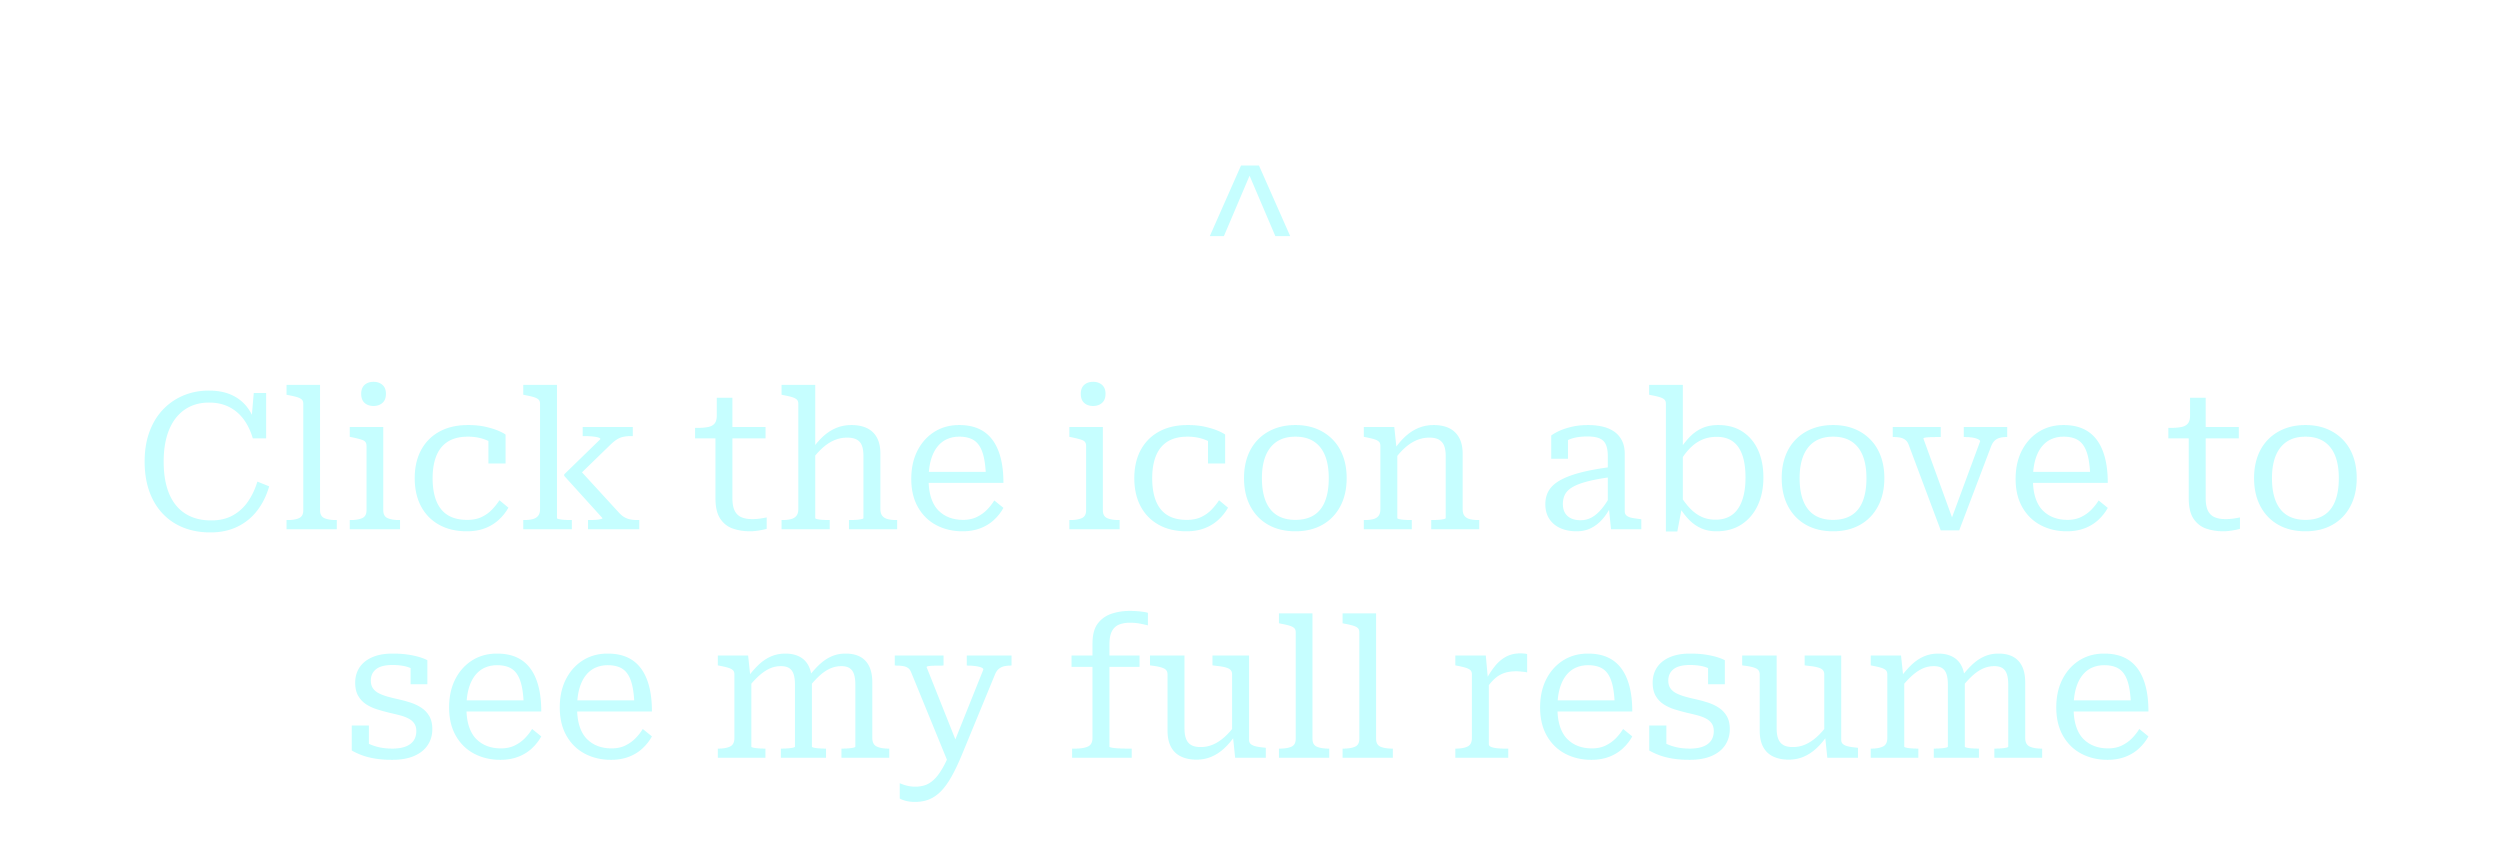
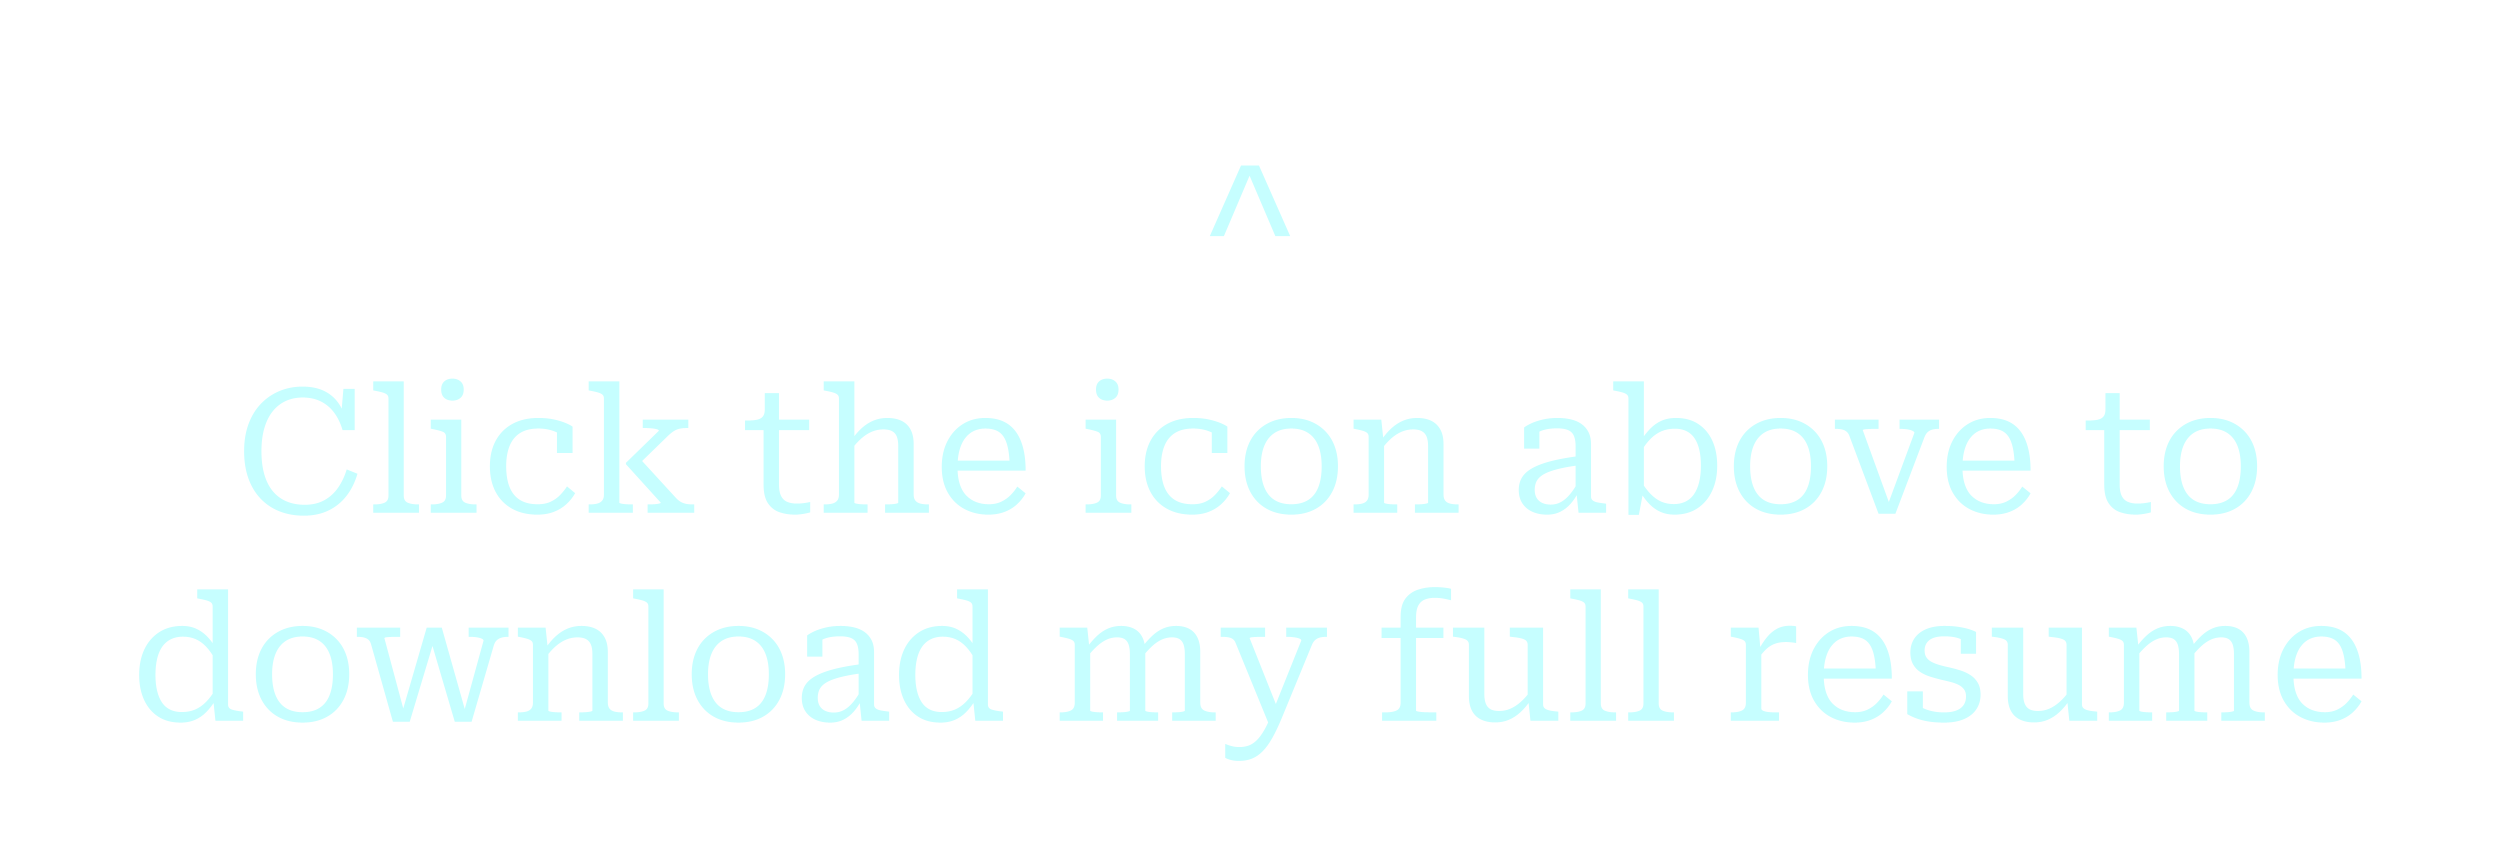
remaining panels content

Changed region(s): [[0.0312, 0.6674, 0.9672, 0.9102], [0.0312, 0.4247, 0.9672, 0.6371], [0.3432, 0.9102, 0.3744, 0.9405]]

diff --git a/main.js b/main.js
@@ -26,13 +26,18 @@ import DownloadCaption from "./images/downloadcaption.png";
 import Resume from "./resume.pdf";
 
 import Panel3Title from "./images/panel3title.png";
+import Panel3Caption from "./images/panel3caption.png";
+import Founders from "./images/founders.png";
+import BISV from "./images/bisv.png";
 
 import Panel4Title from "./images/panel4title.png";
+import Panel4Caption from "./images/hobbies.png";
 
 import Panel5Title from "./images/panel5title.png";
 import Illinois from "./images/illinois.png";
 import IllinoisCaption from "./images/illinoiscaption.png";
 import Coursework from "./images/coursework.png";
+import Skills from "./images/skills.png";
 
 import Panel6Title from "./images/panel6title.png";
 import Panel6Caption from "./images/panel6caption.png";
@@ -260,8 +265,42 @@ const panel3title = new THREE.Mesh(panel3titleGeo, panel3titleMesh);
 panel3title.position.set(-438, 60, 255);
 panel3title.rotateY(-1 * Math.PI / 3);
 
+const panel3captionTexture = new THREE.TextureLoader().load(Panel3Caption);
+const panel3captionGeo = new THREE.PlaneGeometry(220, 140);
+const panel3captionMesh = new THREE.MeshLambertMaterial({map: panel3captionTexture});
+panel3captionMesh.alphaHash = 1;
+const panel3caption = new THREE.Mesh(panel3captionGeo, panel3captionMesh);
+panel3caption.position.set(-450, -25, 235);
+panel3caption.rotateY(-1 * Math.PI / 3);
+
+const foundersTexture = new THREE.TextureLoader().load(Founders);
+const foundersGeo = new THREE.PlaneGeometry(30, 30);
+const foundersMesh = new THREE.MeshLambertMaterial({map: foundersTexture});
+foundersMesh.alphaHash = 1;
+const founders = new THREE.Mesh(foundersGeo, foundersMesh);
+founders.position.set(-390, 25, 340);
+founders.rotateY(-1 * Math.PI / 3);
+
+const videoTexture = new THREE.TextureLoader().load(Illinois);
+const videoGeo = new THREE.PlaneGeometry(20, 30);
+const videoMesh = new THREE.MeshLambertMaterial({map: videoTexture});
+videoMesh.alphaHash = 1;
+const video = new THREE.Mesh(videoGeo, videoMesh);
+video.position.set(-390, -25, 340);
+video.rotateY(-1 * Math.PI / 3);
+video.userData = { URL: "https://mediaspace.illinois.edu/media/t/1_ro9tfei9" };
+
+const bisvTexture = new THREE.TextureLoader().load(BISV);
+const bisvGeo = new THREE.PlaneGeometry(30, 30);
+const bisvMesh = new THREE.MeshLambertMaterial({map: bisvTexture});
+bisvMesh.alphaHash = 1;
+const bisv = new THREE.Mesh(bisvGeo, bisvMesh);
+bisv.position.set(-390, -75, 340);
+bisv.rotateY(-1 * Math.PI / 3);
+bisv.userData = { URL: "https://siliconvalley.basisindependent.com/author/sahithb2022/" };
+
 const panel3content = new THREE.Group();
-panel3content.add(panel3title);
+panel3content.add(panel3title, panel3caption, founders, video, bisv);
 
 const panel4Geo = new THREE.BoxGeometry(280, 200, 10);
 const panel4Mesh = new THREE.MeshLambertMaterial({ map: backgroundTexture });
@@ -281,8 +320,15 @@ panel4titleMesh.alphaHash = 1;
 const panel4title = new THREE.Mesh(panel4titleGeo, panel4titleMesh);
 panel4title.position.set(0, 60, 506);
 
+const panel4captionTexture = new THREE.TextureLoader().load(Panel4Caption);
+const panel4captionGeo = new THREE.PlaneGeometry(170, 100);
+const panel4captionMesh = new THREE.MeshLambertMaterial({map: panel4captionTexture});
+panel4captionMesh.alphaHash = 1;
+const panel4caption = new THREE.Mesh(panel4captionGeo, panel4captionMesh);
+panel4caption.position.set(-50, -20, 506);
+
 const panel4content = new THREE.Group();
-panel4content.add(panel4title);
+panel4content.add(panel4title, panel4caption);
 
 const panel5Geo = new THREE.BoxGeometry(280, 200, 10);
 const panel5Mesh = new THREE.MeshLambertMaterial({ map: backgroundTexture });
@@ -330,11 +376,19 @@ const courseworkGeo = new THREE.PlaneGeometry(150, 100);
 const courseworkMesh = new THREE.MeshLambertMaterial({map: courseworkTexture});
 courseworkMesh.alphaHash = 1;
 const coursework = new THREE.Mesh(courseworkGeo, courseworkMesh);
-coursework.position.set(475, -20, 190);
+coursework.position.set(475, -10, 190);
 coursework.rotateY(Math.PI / 3);
 
+const skillsTexture = new THREE.TextureLoader().load(Skills);
+const skillsGeo = new THREE.PlaneGeometry(120, 30);
+const skillsMesh = new THREE.MeshLambertMaterial({map: skillsTexture});
+skillsMesh.alphaHash = 1;
+const skills = new THREE.Mesh(skillsGeo, skillsMesh);
+skills.position.set(472.5, -75, 200);
+skills.rotateY(Math.PI / 3);
+
 const panel5Content = new THREE.Group();
-panel5Content.add(panel5title, illinois, illinoisCaption, coursework);
+panel5Content.add(panel5title, illinois, illinoisCaption, coursework, skills);
 
 const panel6Geo = new THREE.BoxGeometry(280, 200, 10);
 const panel6Mesh = new THREE.MeshLambertMaterial({ map: backgroundTexture });
@@ -473,7 +527,7 @@ function onPanelsClick(event) {
   raycaster.setFromCamera(mouse, camera);
 
   const intersects = raycaster.intersectObjects(
-    [...panels.children, startingIcon, observation, platform, sahith, sahithBitmoji, onespace, illinois, linkedin, gmail, github],
+    [...panels.children, startingIcon, observation, platform, sahith, sahithBitmoji, onespace, downloadIcon, bisv, video, illinois, linkedin, gmail, github],
     true
   );
 
@@ -502,8 +556,12 @@ function onPanelsClick(event) {
               clickedObject === gmail || 
               clickedObject === github ||
               clickedObject === illinois ||
+              clickedObject === video ||
+              clickedObject === bisv ||
               clickedObject === onespace) {
       window.open(clickedObject.userData.URL);
+    } else if (clickedObject === downloadIcon) { 
+      onObjectClicked(event);
     } else {
       if (!clickEnabled) return;
 
@@ -532,6 +590,18 @@ function startingIconCameraAnimation(target) {
     animateCamera();
   }
 }
+
+function onObjectClicked(event) {
+  const downloadLink = document.createElement('a');
+  downloadLink.href = Resume;
+  downloadLink.download = 'sahithb_resume.pdf';
+
+  document.body.appendChild(downloadLink);
+
+  downloadLink.click();
+  document.body.removeChild(downloadLink);
+}
+
 
 function animateCamera() {
   const increment = 0.05;

diff --git a/style.css b/style.css
@@ -3,3 +3,7 @@ canvas {
   top: 0;
   left: 0;
 }
+
+body {
+  background: black;
+}
